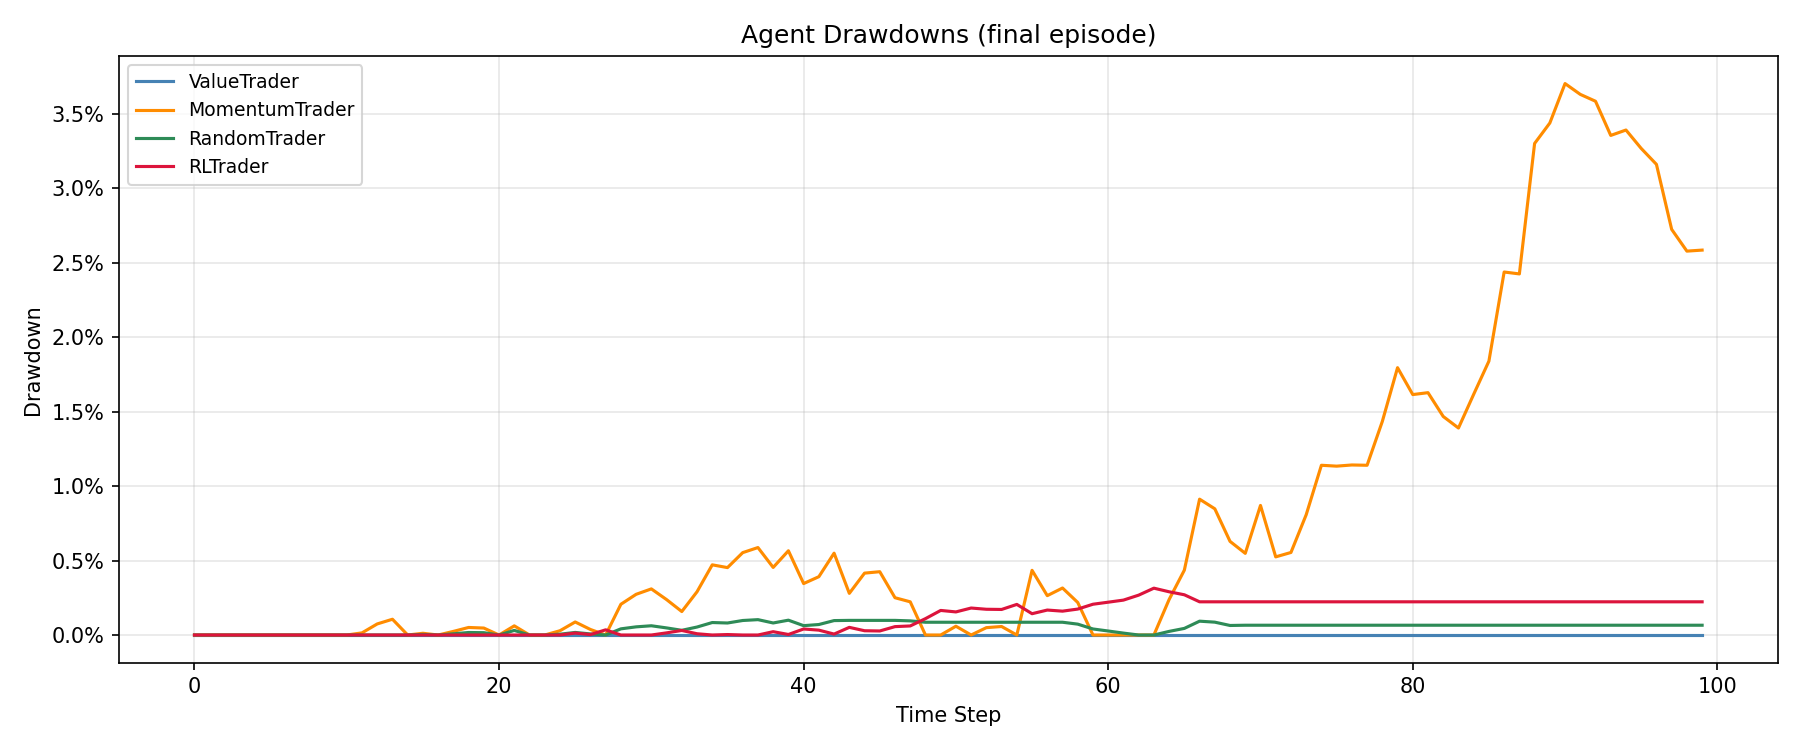
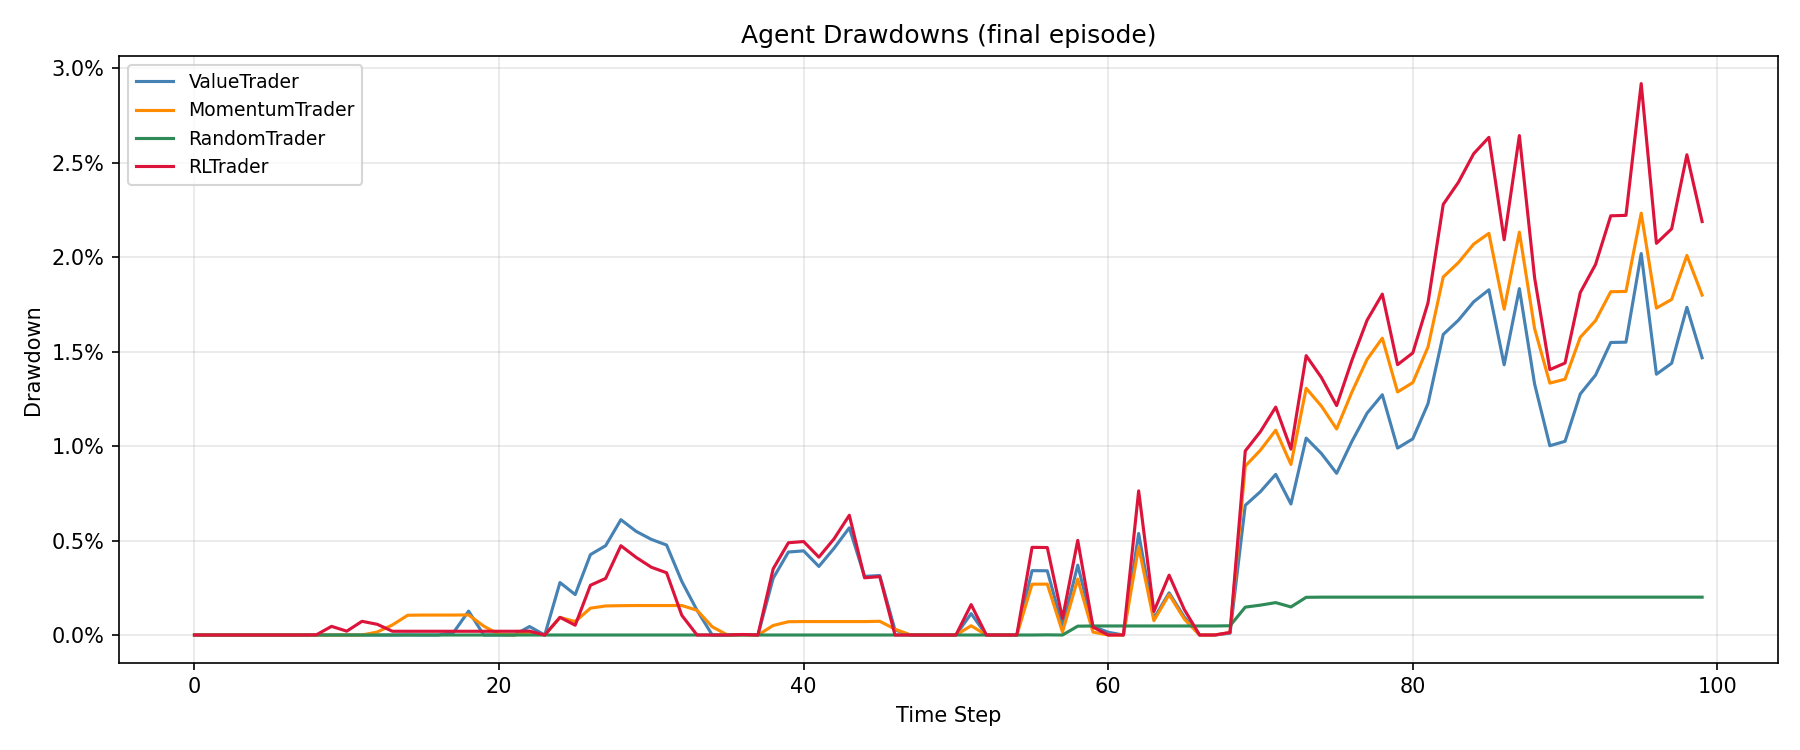
Add multi-timeframe trend features to agent's state
Increase agent's feature dimension by adding 5, 20, and 50-bar momentum indicators to the state, enhancing trend detection capabilities.

Replit-Commit-Author: Agent
Replit-Commit-Session-Id: 3826bf3c-e3fd-4317-b321-61e418fea702
Replit-Commit-Checkpoint-Type: full_checkpoint
Replit-Commit-Event-Id: 5b9320cc-1b9b-4eae-b0d7-b39160f870dc
Replit-Helium-Checkpoint-Created: true

diff --git a/project/agents/rl_agent.py b/project/agents/rl_agent.py
@@ -159,7 +159,7 @@ class ReinforcementLearningTrader(TraderAgent):
 
     # Number of features produced by featurize_state().
     # Must match the length of the tuple featurize_state() returns.
-    FEATURE_DIM = 10   # 8 base + 2 rolling volatility features (short_vol, long_vol)
+    FEATURE_DIM = 13   # 8 base + 2 rolling vol (short_vol, long_vol) + 3 trend (mom_5, mom_20, mom_50)
 
     def __init__(self, name, balance, latency=2):
         super().__init__(name, balance, latency)
@@ -336,6 +336,9 @@ class ReinforcementLearningTrader(TraderAgent):
         H. imbalance     – order-flow imbalance if MarketState provides it, else 0.
         I. short_vol     – 5-step realized volatility from return history, capped at 0.1.
         J. long_vol      – 20-step realized volatility from return history, capped at 0.1.
+        K. mom_5         – 5-bar price momentum, clipped to ±0.2.
+        L. mom_20        – 20-bar price momentum, clipped to ±0.2.
+        M. mom_50        – 50-bar price momentum, clipped to ±0.2.
         """
         prev_price = agent.last_mid_price
         if prev_price is not None and prev_price > 0:
@@ -362,10 +365,17 @@ class ReinforcementLearningTrader(TraderAgent):
         short_vol = round(min(getattr(market_state, "short_vol", 0.0), 0.1), 5)
         long_vol  = round(min(getattr(market_state, "long_vol",  0.0), 0.1), 5)
 
+        # Multi-timeframe trend momentum injected by the simulation each step.
+        # Clipped to ±0.2 so extreme short-term moves don't dominate the input.
+        mom_5  = max(min(getattr(market_state, "mom_5",  0.0), 0.2), -0.2)
+        mom_20 = max(min(getattr(market_state, "mom_20", 0.0), 0.2), -0.2)
+        mom_50 = max(min(getattr(market_state, "mom_50", 0.0), 0.2), -0.2)
+
         return (
             price_bucket, vol_bucket, drift_bucket, inv_bucket, regime,
             m1, m3, imbalance,
             short_vol, long_vol,
+            mom_5, mom_20, mom_50,
         )
 
     # ------------------------------------------------------------------

diff --git a/project/simulation/simulation.py b/project/simulation/simulation.py
@@ -88,6 +88,11 @@ class Simulation:
         self.equity_peak = None
         self.equity_history = []
 
+        # --- Multi-timeframe trend windows --------------------------------
+        self.trend_windows = [5, 20, 50]
+        # price_history (defined in __init__ above) stores raw prices per step
+        # and is reused here for momentum lookback.
+
     def run(self):
         # Register agents: records starting equity, clears per-episode counters
         self.risk_manager.register_agents(self.agents)
@@ -132,6 +137,18 @@ class Simulation:
                 state.long_vol = math.sqrt(long_var)
             else:
                 state.long_vol = 0.0
+
+            # --- Multi-timeframe momentum ---------------------------------
+            # price_history does NOT yet contain the current price (it is
+            # appended at the end of the loop), so self.price_history[-w]
+            # is exactly the price w steps ago — no off-by-one adjustment.
+            for w in self.trend_windows:
+                if len(self.price_history) >= w:
+                    past_price = self.price_history[-w]
+                    mom = (price - past_price) / past_price if past_price != 0 else 0.0
+                else:
+                    mom = 0.0
+                setattr(state, f"mom_{w}", mom)
 
             # --- Deliver queued orders that are due ----------------------
             # Use the *current* state for the risk check so a delayed order
